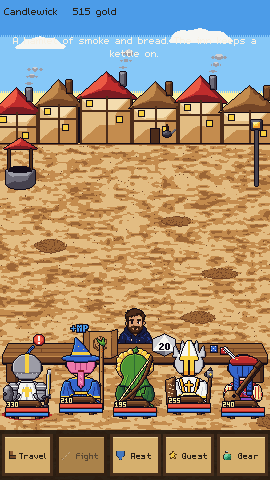
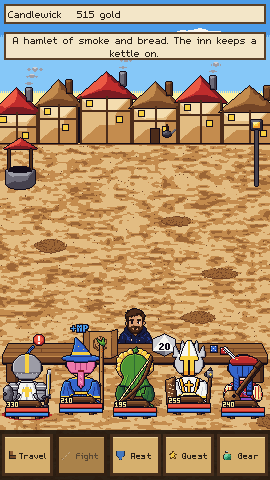
Put the hub location text on parchment.
The Candlewick blurb was light type on the clouds. The place name and the location line now sit on opaque parchment with dark ink, and the text check requires that contrast.

Changed region(s): [[0.0, 0.0, 1.0, 0.125]]

diff --git a/README.md b/README.md
@@ -78,12 +78,12 @@ Native 270×480 captures of the production art:
 [`export_presets.cfg`](export_presets.cfg) has a debug Android preset locked to portrait (`screen/orientation=1`) and arm64-v8a, plus a Linux preset. The project setting `display/window/handheld/orientation` is portrait.
 
 ```bash
-godot --headless --export-debug Android build/paladins-0.3.3-debug.apk
+godot --headless --export-debug Android build/paladins-0.3.4-debug.apk
 ```
 
 The export needs the Godot 4.7.2 Android templates (installed into `android/build`, which is gitignored), a `.build_version` of `4.7.2.stable`, Android SDK 36, build-tools 36.1.0, NDK 29.0.14206865, and a JDK. The project enables ETC2/ASTC import, which the Android exporter requires. Non-resource files (`*.json`, `*.md`) are in the preset include filter. Art is loaded with `load()` / `ResourceLoader`, not `FileAccess.file_exists` on the raw PNG.
 
-The published debug APK is [v0.3.3](https://github.com/thegliffy/paladins-of-pen-and-paper/releases/tag/v0.3.3): [paladins-0.3.3-debug.apk](https://github.com/thegliffy/paladins-of-pen-and-paper/releases/download/v0.3.3/paladins-0.3.3-debug.apk). It is arm64-v8a, portrait, package `com.thegliffy.paladinspenpaper`, version code 15. v0.3.3 keeps the quest log, notice board, and map tracker on an opaque parchment panel, wraps their text inside that panel, and fits the hub button words. v0.3.2 adds a story chain from Candlewick to Gravel Keep and a Candlewick notice board of repeatable kill and drop quests. Accepting a notice rerolls that slot. v0.3.1 swaps in the weapon-less class layer whenever a main-hand weapon is worn, so paladin, druid, wizard, barbarian, bard, and ranger do not draw a second weapon. Cleric and rogue keep their normal layers. v0.3.0 uses the approved item icons and seats gear in the paper-doll recipe: armor under the hair, weapons over the hat, and the chair last. v0.2.9 paints each place's combat backdrop and fills the meadow, coast, cave, and keep with their own monsters. v0.2.8 adds the shared bag, hero equipment, town shop, class starting kits, and monster drops. v0.2.7 applies a direct heal the moment it is cast, gives each place its own monster table, and names a combat backdrop per place. v0.2.6 sizes the fight: five regular foes or three large ones, with mixed lineups spending a shared table of 15 space. v0.2.5 taps an enemy to attack, aims single-target skills by tapping the table, and opens a fight builder. v0.2.4, v0.2.3, v0.2.2, v0.2.1, v0.2.0, and v0.1.0 are left as-is.
+The published debug APK is [v0.3.4](https://github.com/thegliffy/paladins-of-pen-and-paper/releases/tag/v0.3.4): [paladins-0.3.4-debug.apk](https://github.com/thegliffy/paladins-of-pen-and-paper/releases/download/v0.3.4/paladins-0.3.4-debug.apk). It is arm64-v8a, portrait, package `com.thegliffy.paladinspenpaper`, version code 16. v0.3.4 puts the hub place name and location blurb on opaque parchment so they read on the clouds. v0.3.3 keeps the quest log, notice board, and map tracker on an opaque parchment panel, wraps their text inside that panel, and fits the hub button words. v0.3.2 adds a story chain from Candlewick to Gravel Keep and a Candlewick notice board of repeatable kill and drop quests. Accepting a notice rerolls that slot. v0.3.1 swaps in the weapon-less class layer whenever a main-hand weapon is worn, so paladin, druid, wizard, barbarian, bard, and ranger do not draw a second weapon. Cleric and rogue keep their normal layers. v0.3.0 uses the approved item icons and seats gear in the paper-doll recipe: armor under the hair, weapons over the hat, and the chair last. v0.2.9 paints each place's combat backdrop and fills the meadow, coast, cave, and keep with their own monsters. v0.2.8 adds the shared bag, hero equipment, town shop, class starting kits, and monster drops. v0.2.7 applies a direct heal the moment it is cast, gives each place its own monster table, and names a combat backdrop per place. v0.2.6 sizes the fight: five regular foes or three large ones, with mixed lineups spending a shared table of 15 space. v0.2.5 taps an enemy to attack, aims single-target skills by tapping the table, and opens a fight builder. v0.2.4, v0.2.3, v0.2.2, v0.2.1, v0.2.0, and v0.1.0 are left as-is.
 
 ## Where numbers live
 
